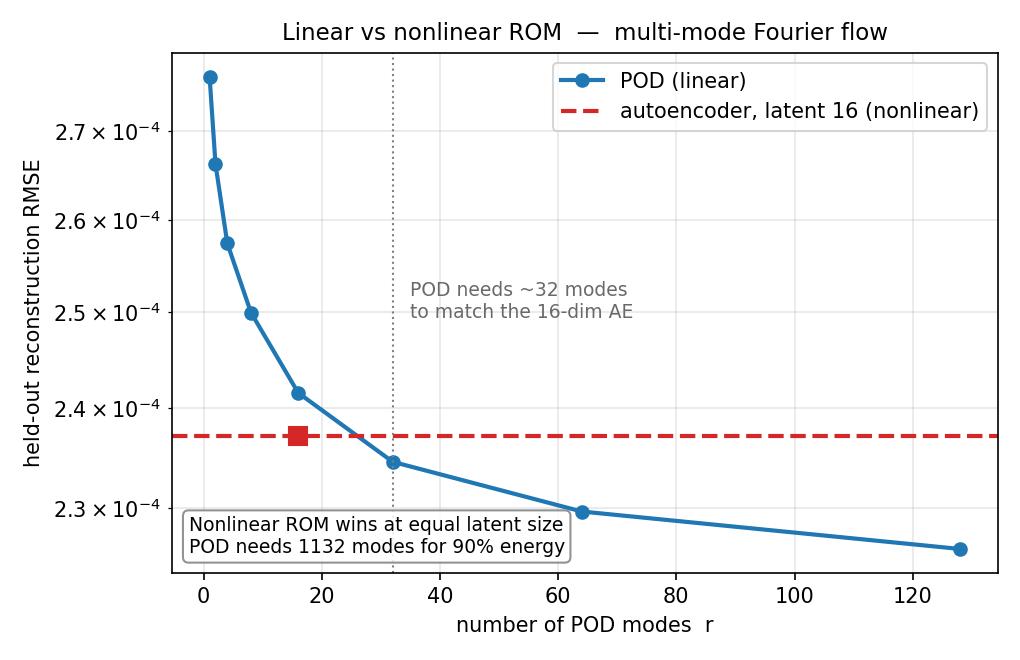
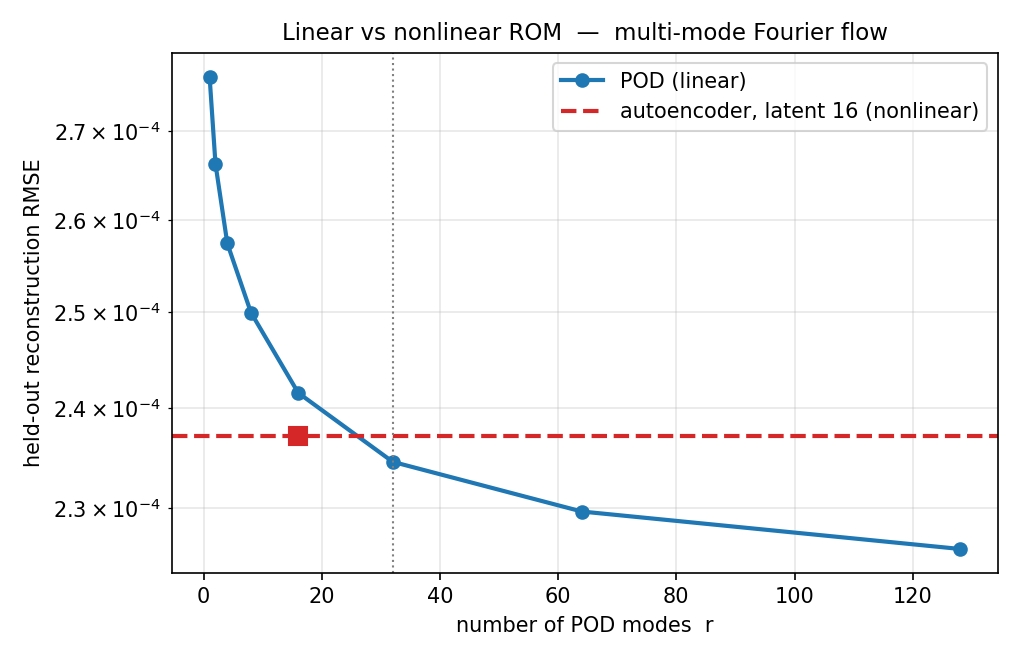
Remove in-figure annotations from the ROM comparison plot
The callout and footnote box duplicated facts already stated alongside the
figure, so the plot now carries only its title, axis labels and legend. The
90%-energy mode count is reported on stdout instead of in the figure.

Changed region(s): [[0.1824, 0.7576, 0.5775, 0.8788], [0.3951, 0.4242, 0.6382, 0.4848]]

diff --git a/scripts/compare_roms.py b/scripts/compare_roms.py
@@ -76,13 +76,9 @@ def main():
                label=f"autoencoder, latent {latent} (nonlinear)")
     ax.plot([latent], [ae_rmse], "s", color="#d62728", ms=9, zorder=5)
 
-    # Mark the POD rank that matches the autoencoder, if any. The dotted line
-    # locates it; a plain label next to it explains what it means (no arrow).
+    # Mark the POD rank that matches the autoencoder, if any.
     if match is not None:
         ax.axvline(match, color="grey", ls=":", lw=1)
-        ax.text(match + 3, ae_rmse * 1.05,
-                f"POD needs ~{match} modes\nto match the {latent}-dim AE",
-                fontsize=9, color="dimgrey", va="bottom", ha="left")
 
     verdict = ("Nonlinear ROM wins at equal latent size"
                if wins else "Linear POD is not beaten at equal latent size")
@@ -94,11 +90,6 @@ def main():
     ax.set_ylabel("held-out reconstruction RMSE")
     ax.grid(alpha=0.3, which="both")
     ax.legend(loc="upper right")
-    # Verdict + energy context as a footnote box, clear of the title/curve.
-    ax.text(0.02, 0.03,
-            f"{verdict}\nPOD needs {e90} modes for 90% energy",
-            transform=ax.transAxes, fontsize=9, va="bottom", ha="left",
-            bbox=dict(boxstyle="round", fc="white", ec="grey", alpha=0.85))
     fig.tight_layout()
 
     out = pathlib.Path(args.out)
@@ -111,6 +102,7 @@ def main():
     print(f"  equivalent POD rank                : "
           f"{match if match is not None else '>%d' % int(ranks[-1])}")
     print(f"  verdict                            : {verdict}")
+    print(f"  POD modes for 90% energy           : {e90}")
     print(f"  wrote {out}")
 
 
